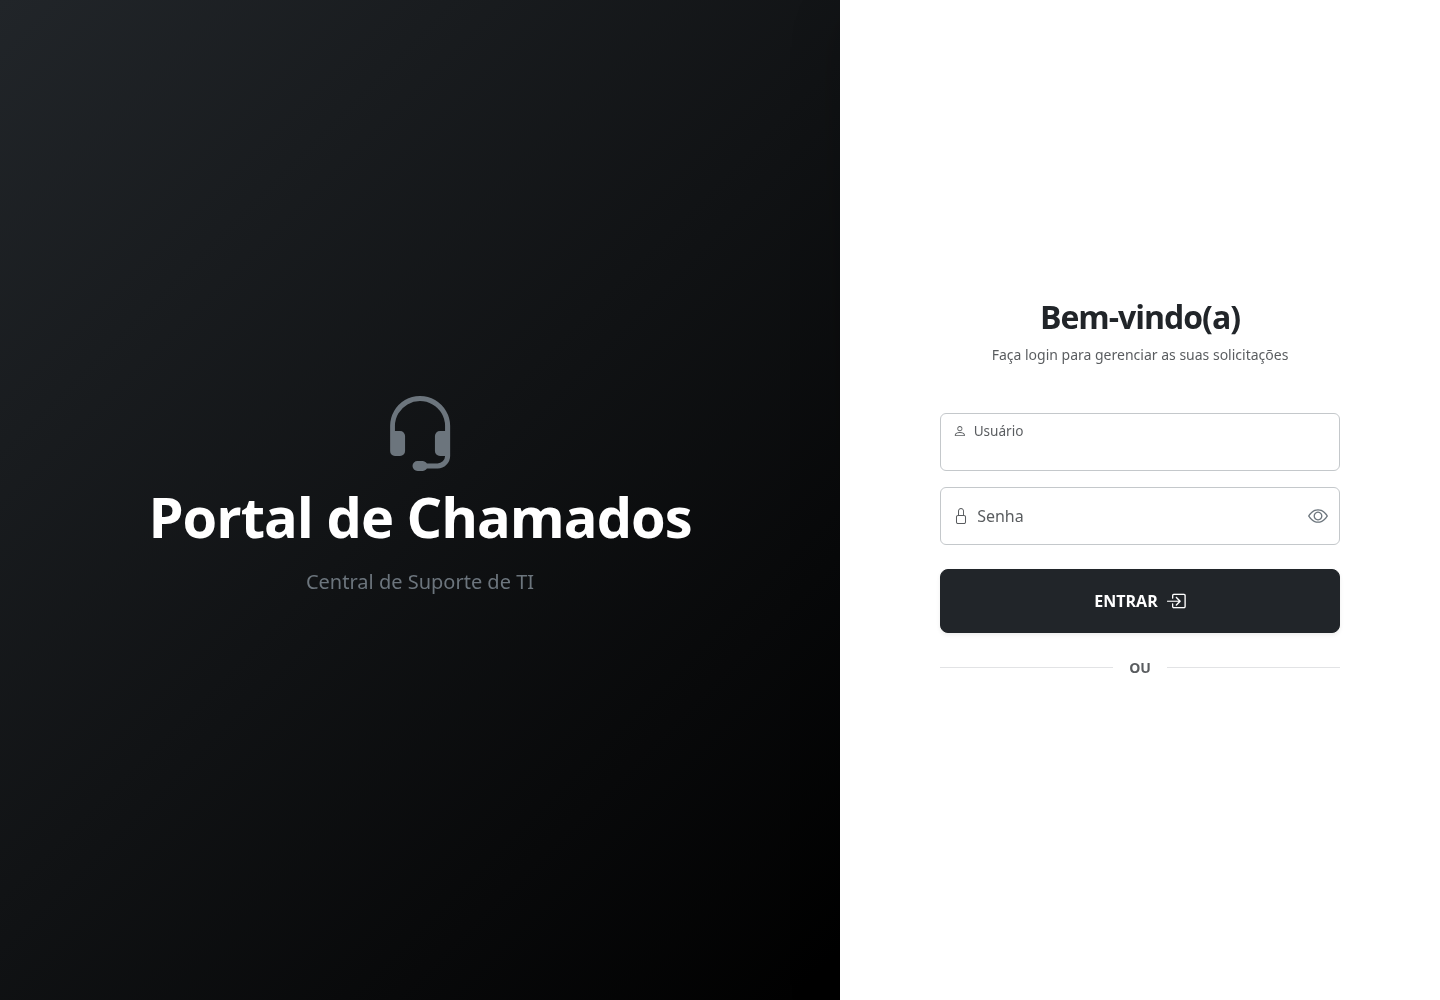
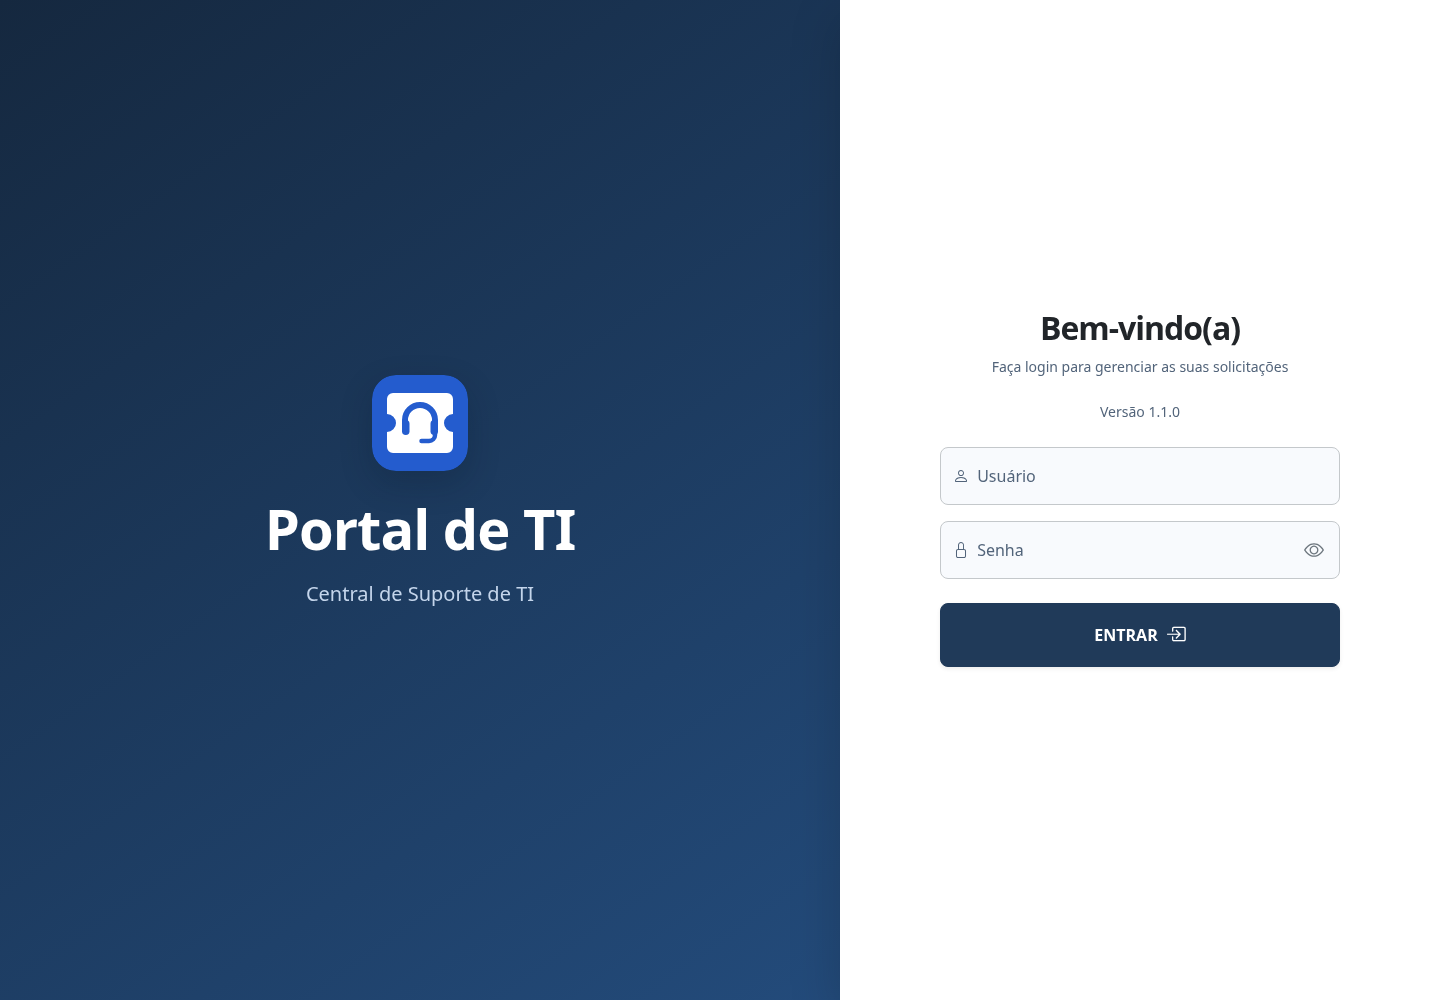
docs: refresh README screenshots for v1.1.0 identity

diff --git a/README.md b/README.md
@@ -11,7 +11,7 @@
 
 Aplicação de Helpdesk e Gestão de Chamados desenvolvida em **Python e Django**, com fila de atendimento, acompanhamento de SLA, indicadores, controle de acesso e trilha de auditoria.
 
-As capturas abaixo ilustram as funcionalidades do portal com **dados fictícios de demonstração**. As imagens ficam versionadas em [`docs/imagens`](docs/imagens), sem depender de anexos externos do GitHub.
+As capturas abaixo mostram o visual da **v1.1.0**, com a marca atual, os novos ícones e **dados fictícios de demonstração**. As imagens ficam versionadas em [`docs/imagens`](docs/imagens), sem depender de anexos externos do GitHub.
 
 ---
 
@@ -53,7 +53,7 @@ As capturas abaixo ilustram as funcionalidades do portal com **dados fictícios 
 
 ### 🔄 Redistribuição de Chamados
 
-![Transferência de chamado com seleção de técnico ativo e motivo obrigatório](docs/imagens/redistribuicao.png)
+![Redistribuição com equipe de destino, técnico opcional e motivo obrigatório](docs/imagens/redistribuicao.png)
 
 * **Distribuição e Transferência:** Coordenadores distribuem chamados das equipes que coordenam; administradores têm visão geral. O destino pode ser outra equipe ativa, com responsável opcional entre seus integrantes ativos e motivo obrigatório.
 * **Auditoria:** Registro do autor, data, motivo e responsáveis anterior e novo, sem alterar o histórico dos chamados concluídos.
@@ -61,7 +61,16 @@ As capturas abaixo ilustram as funcionalidades do portal com **dados fictícios 
 
 ![Edição de colaborador com chamados pendentes e links para redistribuição](docs/imagens/pendencias-tecnico.png)
 
+### 👥 Gestão de Equipes
+
+![Gestão de equipes com integrantes, coordenadores, pendências e situação](docs/imagens/equipes.png)
+
+* **Administração no portal:** Cadastro e edição de equipes, integrantes e coordenadores em **Gerenciar Equipes**.
+* **Organização do atendimento:** Cada equipe tem sua fila e seus indicadores; um técnico pode participar de mais de uma equipe.
+
 ### 🧭 Encaminhamento automático por categoria
+
+![Regras de encaminhamento com categoria, equipe configurada e situação](docs/imagens/encaminhamento.png)
 
 Administradores configuram as regras em **Gerenciar Equipes → Encaminhamento por categoria**.
 A configuração inicial é:
